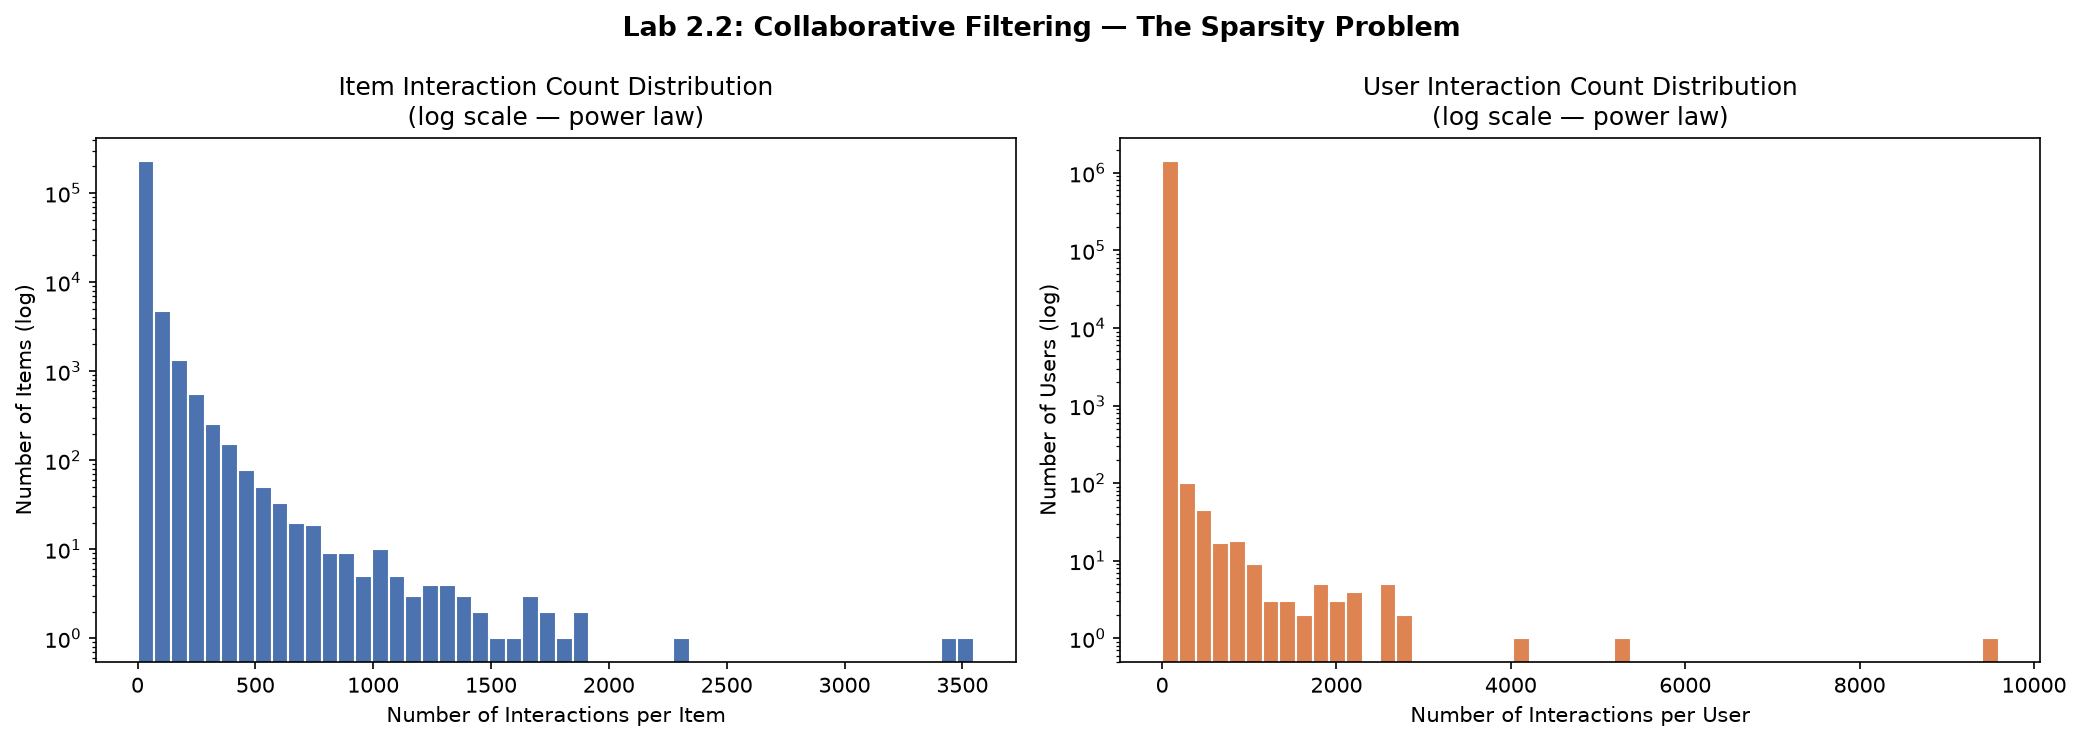
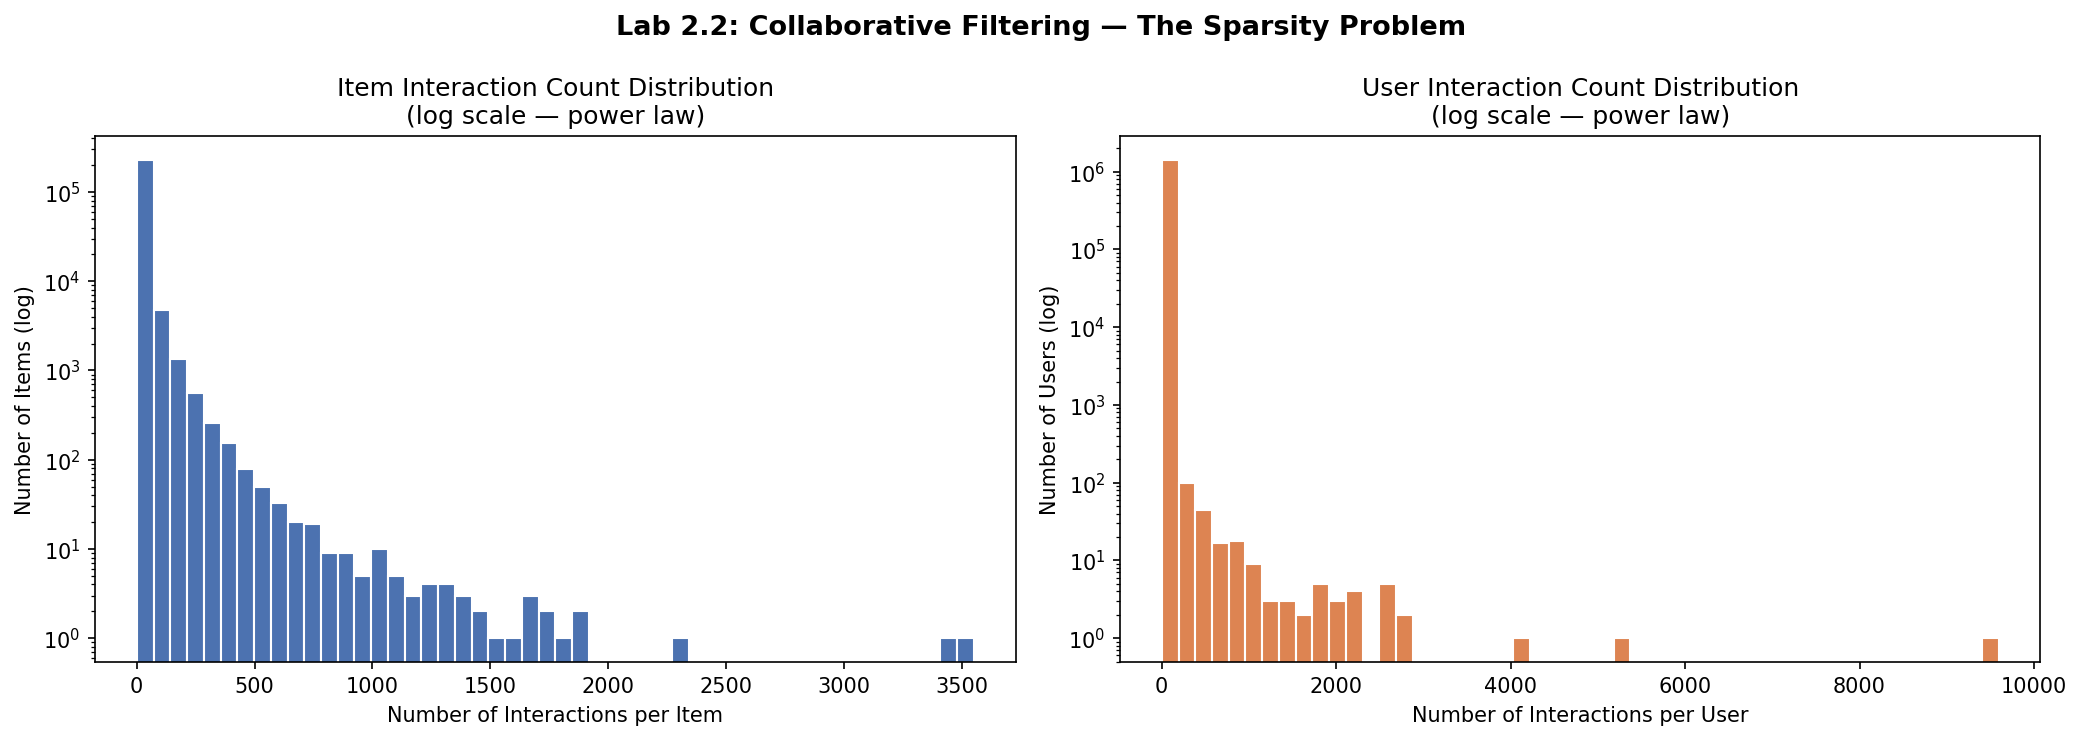
Lab 2.2: refresh script & output

diff --git a/collaborative_filtering.py b/collaborative_filtering.py
@@ -6,6 +6,7 @@
 # Saras AI Institute | Build Predictive Models & Modern Recommenders
 # =============================================================================
 
+import os
 import pandas as pd
 import numpy as np
 import matplotlib.pyplot as plt
@@ -14,6 +15,7 @@ from sklearn.metrics.pairwise import cosine_similarity
 from sklearn.preprocessing import normalize
 import pickle
 import warnings
+
 warnings.filterwarnings('ignore')
 
 print("=" * 60)
@@ -38,7 +40,7 @@ event_weights = {
 }
 
 # TODO: Map your defined event weights dictionary onto the events['event'] column to populate a new column 'weight'
-events['weight'] = events['event'].map(event_weights).fillna(0).astype(np.float32)
+events['weight'] = events['event'].map(event_weights).fillna(0)
 
 print(f"    Total events    : {len(events):,}")
 
@@ -51,7 +53,7 @@ interactions = (
     .sum()
 )
 
-print(f"    Unique user-item pairs: {len(interactions) if interactions is not None else 0:,}")
+print(f"    Unique user-item pairs: {len(interactions):,}")
 
 
 # ---------------------------------------------------------------------------
@@ -65,35 +67,27 @@ item_ids = interactions['itemid'].unique()
 
 # TODO: Generate continuous coordinate index maps (dictionaries) for users and items
 # Format: {raw_id: coordinate_index_integer}
-user_to_idx = {
-    user_id: index
-    for index, user_id in enumerate(user_ids)
-}
-
-item_to_idx = {
-    item_id: index
-    for index, item_id in enumerate(item_ids)
-}
+user_to_idx = {user_id: idx for idx, user_id in enumerate(user_ids)}
+item_to_idx = {item_id: idx for idx, item_id in enumerate(item_ids)}
 
 # TODO: Map the raw IDs inside your interactions dataframe to their respective structural coordinates
 # Hint: Use .map() with your index dictionaries on 'visitorid' and 'itemid' columns to get underlying indices (.values)
 row_idx = interactions['visitorid'].map(user_to_idx).values
 col_idx = interactions['itemid'].map(item_to_idx).values
-data = interactions['weight'].values.astype(np.float32)
+data = interactions['weight'].values
 
 # TODO: Assemble a Compressed Sparse Row (CSR) matrix using your mapped coordinates and weights
 # Hint: Pass a data configuration tuple ((data, (row_idx, col_idx))) alongside explicit shape constraints
 user_item_matrix = sp.csr_matrix(
     (data, (row_idx, col_idx)),
-    shape=(len(user_ids), len(item_ids)),
-    dtype=np.float32
+    shape=(len(user_ids), len(item_ids))
 )
 
 # TODO: Transpose the user_item_matrix and format explicitly as a CSR matrix to facilitate item similarity calculations
 item_user_matrix = user_item_matrix.T.tocsr()
 
-print(f"    User-item matrix shape : {user_item_matrix.shape if user_item_matrix is not None else 'N/A'}")
-print(f"    Non-zero entries       : {user_item_matrix.nnz:,}" if user_item_matrix is not None else "N/A")
+print(f"    User-item matrix shape : {user_item_matrix.shape}")
+print(f"    Non-zero entries       : {user_item_matrix.nnz:,}")
 
 
 # ---------------------------------------------------------------------------
@@ -105,7 +99,7 @@ print("\n[3] Computing item-item similarity (batched for memory efficiency)...")
 # Hint: Use sklearn's normalize() function specifying norm='l2'
 item_user_norm = normalize(item_user_matrix, norm='l2', axis=1)
 
-MAX_ITEMS = min(5000, len(item_ids)) if item_ids is not None else 5000
+MAX_ITEMS = min(5000, len(item_ids))
 print(f"    Computing similarity for top {MAX_ITEMS:,} items (by interaction count)...")
 
 # TODO: Identify the top most interacted items to isolate an executable benchmark evaluation boundary
@@ -114,26 +108,10 @@ item_interaction_counts = np.asarray(item_user_matrix.sum(axis=1)).flatten()
 top_item_indices = np.argsort(item_interaction_counts)[::-1][:MAX_ITEMS]
 top_item_ids = item_ids[top_item_indices]
 
-# This map connects a global catalog item matrix index to its row location
-# in the precomputed top-item similarity matrix.
-top_item_position = {
-    item_index: position
-    for position, item_index in enumerate(top_item_indices)
-}
-
 # TODO: Subset your normalized item matrix using top_item_indices and compute the baseline cosine similarity against all item vectors
 # Hint: Call cosine_similarity(item_subset, item_user_norm)
 item_subset = item_user_norm[top_item_indices]
-
-# Keep output sparse. A dense 5,000 × all-items matrix may exceed available RAM.
-similarity_matrix = cosine_similarity(
-    item_subset,
-    item_user_norm,
-    dense_output=False
-).tocsr()
-
-print(f"    Similarity matrix shape: {similarity_matrix.shape}")
-print(f"    Similarity non-zeros   : {similarity_matrix.nnz:,}")
+similarity_matrix = cosine_similarity(item_subset, item_user_norm)
 
 
 # ---------------------------------------------------------------------------
@@ -143,14 +121,13 @@ print("\n[4] Building CF recommendation function...")
 
 def get_cf_recommendations(item_id, top_k=10):
     """
-    Given an item_id, return top_k most similar items based on item-item
-    collaborative filtering.
-
+    Given an item_id, return top_k most similar items based on item-item collaborative filtering.
     Returns a pandas DataFrame tracking 'item_id' and 'similarity'.
     """
+
     # TODO: Check if item_id exists in item_to_idx mapping boundary. If not, return an empty DataFrame.
     if item_id not in item_to_idx:
-        print(f"    Warning: Item ID {item_id} does not exist in the CF catalog.")
+        print(f"    Warning: Item ID {item_id} was not found in the CF catalog.")
         return pd.DataFrame(columns=['item_id', 'similarity'])
 
     item_idx_in_catalog = item_to_idx[item_id]
@@ -158,9 +135,10 @@ def get_cf_recommendations(item_id, top_k=10):
     # TODO: Retrieve the full similarity score array for this item.
     # Logic: If item_id is inside top_item_ids, pull its precomputed vector row from similarity_matrix.
     # Otherwise, fall back to calculating its specific cosine similarity on the fly using item_user_norm.
-    if item_idx_in_catalog in top_item_position:
-        precomputed_row = top_item_position[item_idx_in_catalog]
-        sims = similarity_matrix.getrow(precomputed_row).toarray().flatten()
+    top_position = np.where(top_item_indices == item_idx_in_catalog)[0]
+
+    if len(top_position) > 0:
+        sims = similarity_matrix[top_position[0]].copy()
     else:
         sims = cosine_similarity(
             item_user_norm[item_idx_in_catalog],
@@ -171,17 +149,11 @@ def get_cf_recommendations(item_id, top_k=10):
     sims[item_idx_in_catalog] = -1
 
     # TODO: Discover indices tracking the top_k largest similarity values and build a return DataFrame matching target items
-    valid_count = min(top_k, len(sims) - 1)
-
-    if valid_count <= 0:
-        return pd.DataFrame(columns=['item_id', 'similarity'])
-
-    candidate_indices = np.argpartition(sims, -valid_count)[-valid_count:]
-    top_indices = candidate_indices[np.argsort(sims[candidate_indices])[::-1]]
+    top_indices = np.argsort(sims)[::-1][:top_k]
 
     return pd.DataFrame({
-        'item_id': item_ids[top_indices] if item_ids is not None else [],
-        'similarity': sims[top_indices] if sims is not None else []
+        'item_id': item_ids[top_indices],
+        'similarity': sims[top_indices]
     })
 
 
@@ -190,14 +162,14 @@ def get_cf_recommendations(item_id, top_k=10):
 # ---------------------------------------------------------------------------
 print("\n[5] Testing CF recommender...")
 
-if top_item_ids is not None:
+if len(top_item_ids) > 0:
     popular_item = top_item_ids[0]
     print(f"    Query item ID (most popular): {popular_item}")
 
     # TODO: Run your get_cf_recommendations routine to isolate matching candidate items for popular_item
     cf_recs = get_cf_recommendations(popular_item, top_k=10)
 
-    print(cf_recs.to_string(index=False) if cf_recs is not None else "    Not Implemented")
+    print(cf_recs.to_string(index=False))
 
 
 # ---------------------------------------------------------------------------
@@ -213,21 +185,22 @@ try:
     cb_precision = cb_artifacts['cb_results']['precision_at_10']
     print(f"    CB Precision@10 (Lab 2.1): {cb_precision:.4f}")
 
-except Exception:
+except FileNotFoundError:
     cb_precision = None
     print("    CB artifacts not found — run Lab 2.1 first")
 
 # TODO: Isolate transactional events to verify retrieval scores across users with multiple purchases
 # Filter events down to 'transaction' values and subset column structures to ['visitorid', 'itemid']
 purchases = (
-    events[events['event'] == 'transaction']
-    .sort_values('timestamp')
-    [['visitorid', 'itemid']]
+    events.loc[
+        events['event'] == 'transaction',
+        ['visitorid', 'itemid', 'timestamp']
+    ]
+    .sort_values(['visitorid', 'timestamp'])
     .copy()
 )
 
-if purchases is not None:
-    purchases.columns = ['user_id', 'item_id']
+purchases.columns = ['user_id', 'item_id', 'timestamp']
 
 # TODO: Isolate sequential multi-purchase records by keeping users with 2 or more historical purchases
 multi_buyers = purchases[
@@ -237,11 +210,14 @@ multi_buyers = purchases[
 cf_hits = 0
 cf_total = 0
 
-if multi_buyers is not None:
+if len(multi_buyers) > 0:
     eval_users = multi_buyers['user_id'].unique()[:500]
 
     for user in eval_users:
-        user_items = purchases[purchases['user_id'] == user]['item_id'].values
+        user_items = purchases[
+            purchases['user_id'] == user
+        ]['item_id'].values
+
         catalog_items = [item for item in user_items if item in item_to_idx]
 
         if len(catalog_items) < 2:
@@ -270,11 +246,27 @@ print(f"\n    Evaluated on {cf_total} users")
 print(f"    CF Hits@10     : {cf_hits}")
 print(f"    CF Precision@10: {cf_precision:.4f}")
 
+if cb_precision is not None:
+    difference = cf_precision - cb_precision
+    print(f"    CF vs CB difference: {difference:+.4f}")
+
 
 # ---------------------------------------------------------------------------
 # SECTION 7: Sparsity Problem Visualization
 # ---------------------------------------------------------------------------
 print("\n[7] Visualizing the sparsity problem...")
+
+os.makedirs("output", exist_ok=True)
+
+# Item interaction totals: number of recorded interactions for each item
+item_interaction_frequencies = np.asarray(
+    user_item_matrix.sum(axis=0)
+).flatten()
+
+# User interaction totals: number of recorded interactions for each user
+user_interaction_frequencies = np.asarray(
+    user_item_matrix.sum(axis=1)
+).flatten()
 
 # --- Rendering Long Tail Distributions ---
 fig, axes = plt.subplots(1, 2, figsize=(14, 5))
@@ -286,30 +278,26 @@ fig.suptitle(
 
 # TODO: Plot an item interaction frequency distribution histogram using axes[0] on a logarithmic scale
 # Hint: Use axes[0].hist() and configure axes[0].set_yscale('log') or set log=True
-item_counts = interactions.groupby('itemid')['weight'].sum()
-
 axes[0].hist(
-    item_counts,
+    item_interaction_frequencies,
     bins=50,
     color='#4C72B0',
-    edgecolor='white',
-    log=True
+    edgecolor='white'
 )
+axes[0].set_yscale('log')
 
 axes[0].set_title("Item Interaction Count Distribution\n(log scale — power law)")
 axes[0].set_xlabel("Number of Interactions per Item")
 axes[0].set_ylabel("Number of Items (log)")
 
 # TODO: Plot user interaction frequency distribution counts using a log histogram format on axes[1]
-user_counts = interactions.groupby('visitorid')['weight'].sum()
-
 axes[1].hist(
-    user_counts,
+    user_interaction_frequencies,
     bins=50,
     color='#DD8452',
-    edgecolor='white',
-    log=True
+    edgecolor='white'
 )
+axes[1].set_yscale('log')
 
 axes[1].set_title("User Interaction Count Distribution\n(log scale — power law)")
 axes[1].set_xlabel("Number of Interactions per User")
@@ -325,28 +313,30 @@ plt.show()
 # ---------------------------------------------------------------------------
 # TODO: Dump your sparse matrix definitions, catalog arrays, index mappings, and calculated metrics to a pickle file
 # Path: "data/cf_artifacts.pkl"
+
 cf_artifacts = {
     'user_item_matrix': user_item_matrix,
-    'item_user_matrix': item_user_matrix,
-    'item_user_norm': item_user_norm,
     'user_ids': user_ids,
     'item_ids': item_ids,
     'user_to_idx': user_to_idx,
     'item_to_idx': item_to_idx,
     'top_item_indices': top_item_indices,
     'top_item_ids': top_item_ids,
-    'top_item_position': top_item_position,
     'cf_results': {
         'model': 'Item-Item Collaborative Filtering',
         'precision_at_10': cf_precision,
         'evaluated_users': cf_total,
         'hits_at_10': cf_hits,
-        'cb_precision_at_10': cb_precision
+        'max_precomputed_items': MAX_ITEMS
     }
 }
 
-with open("data/cf_artifacts.pkl", "wb") as f:
-    pickle.dump(cf_artifacts, f)
+with open("data/cf_artifacts.pkl", "wb") as file:
+    pickle.dump(
+        cf_artifacts,
+        file,
+        protocol=pickle.HIGHEST_PROTOCOL
+    )
 
 print("\n    Saved -> data/cf_artifacts.pkl")
 print("    Move to: 03_lightfm_cold_start.py")
